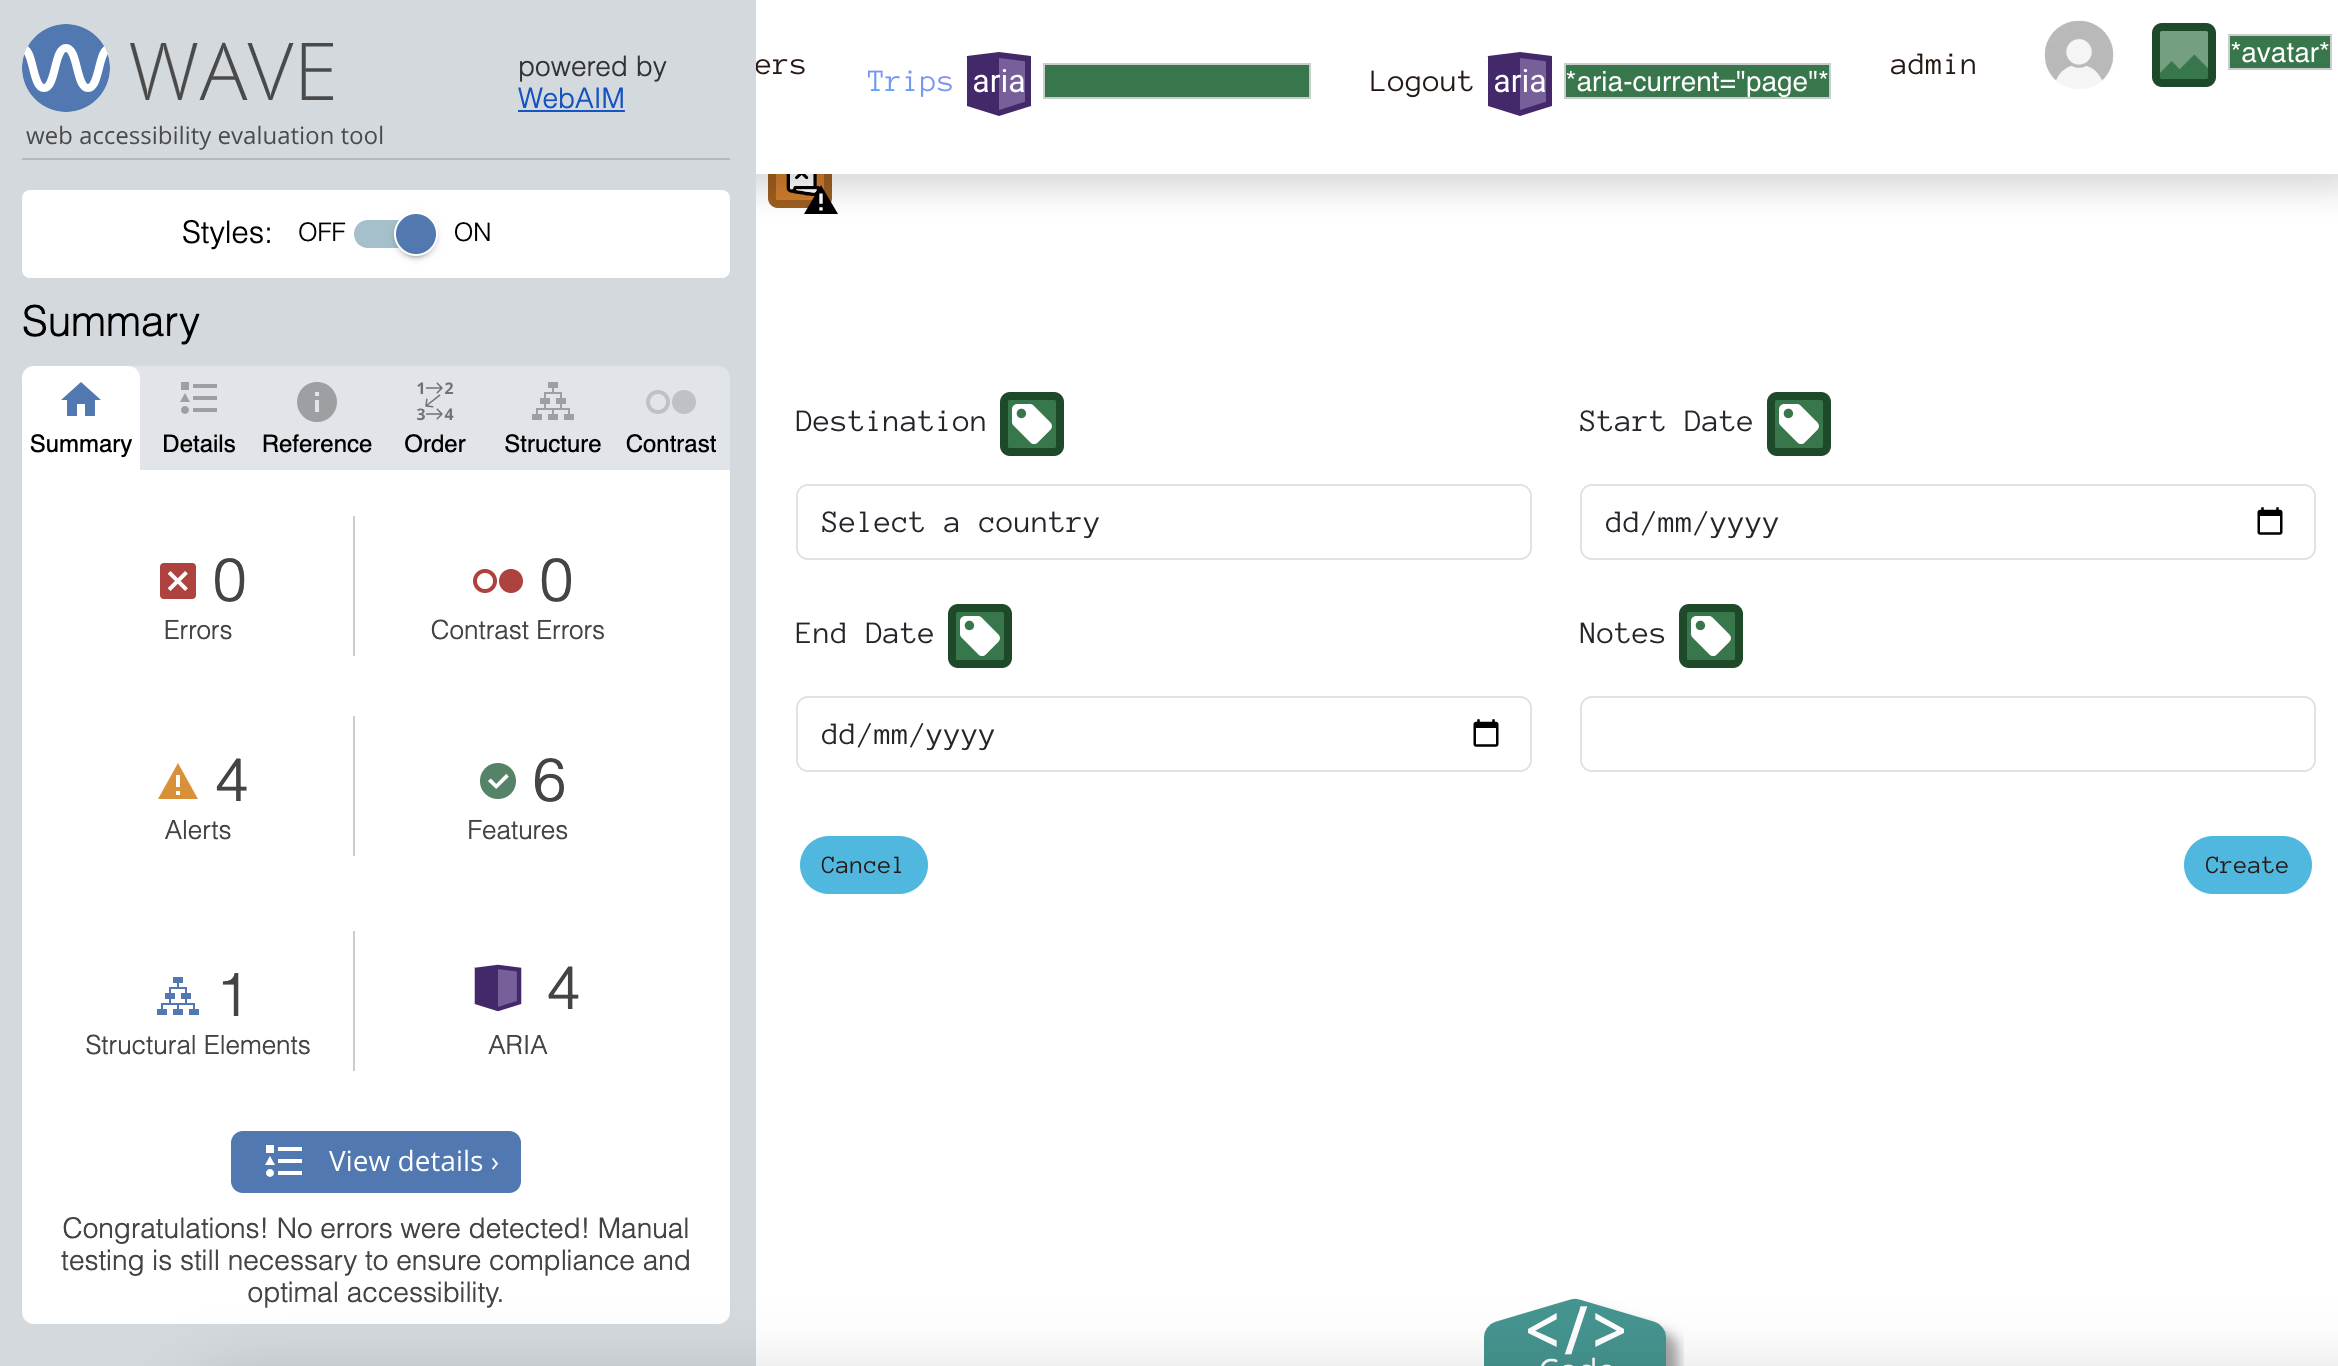
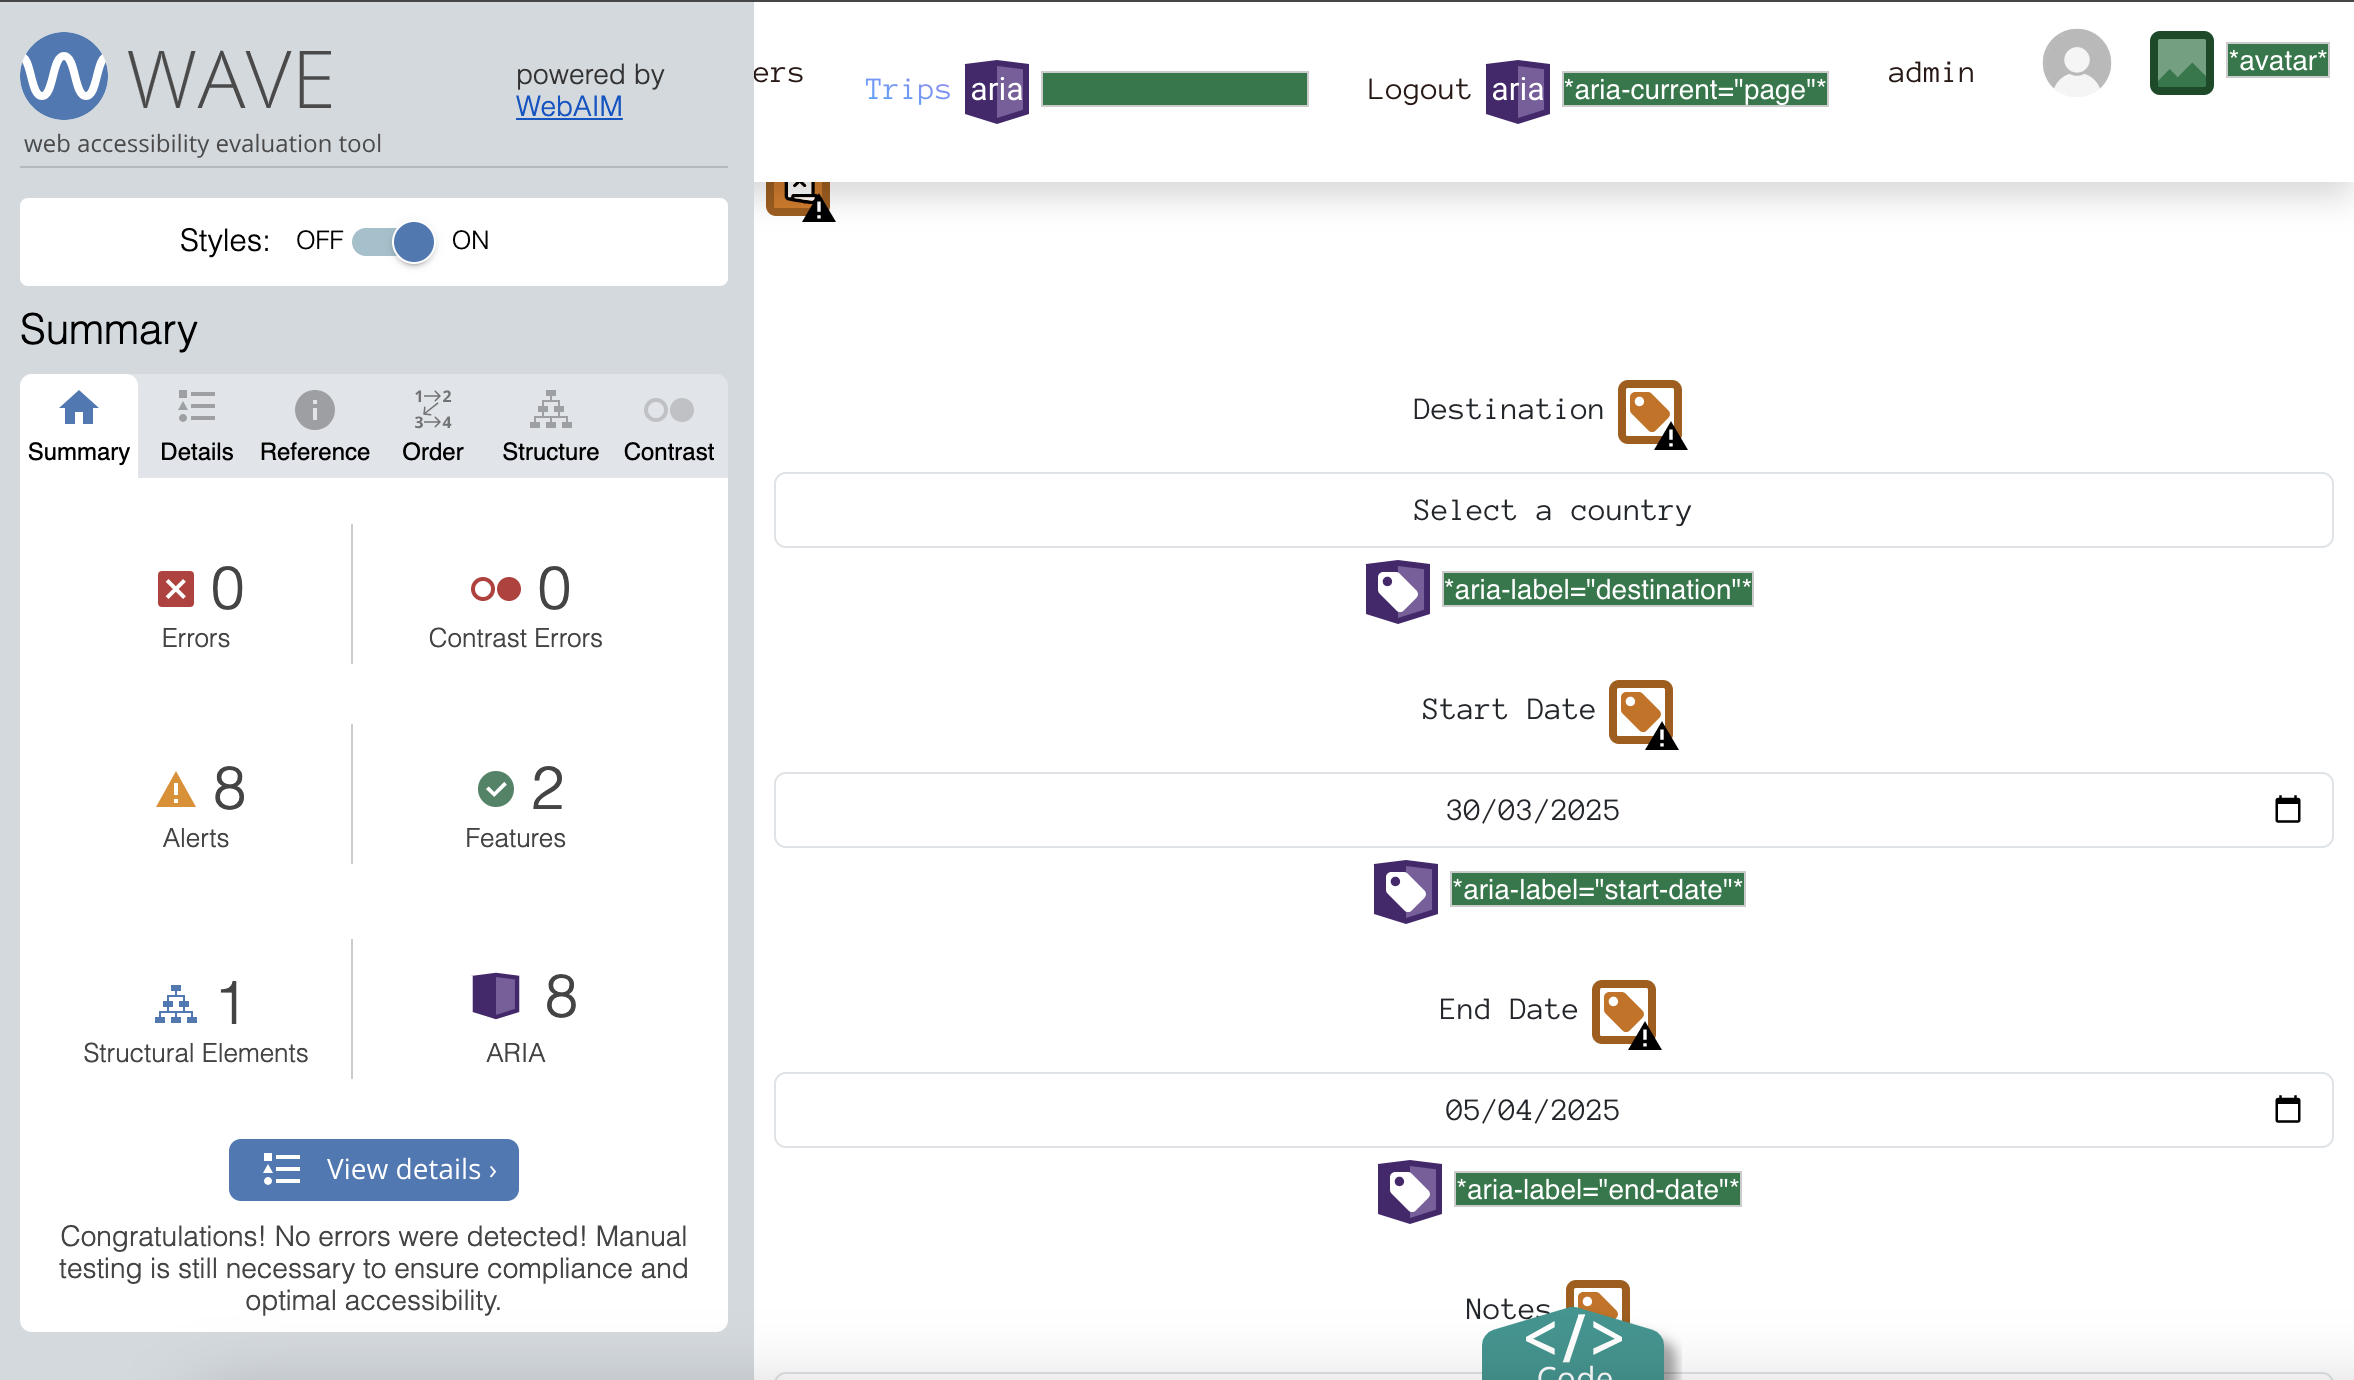
add wave tests to readme

diff --git a/frontend/src/pages/comments/CommentCreateForm.js b/frontend/src/pages/comments/CommentCreateForm.js
@@ -45,7 +45,7 @@ function CommentCreateForm(props) {
             <Form.Control
               className={styles.Form}
               placeholder="My comment..."
-              as="textarea"
+              as="textarea";;
               value={content}
               onChange={handleChange}
               rows={2}

diff --git a/README.md b/README.md
@@ -345,6 +345,8 @@ The following issues were raised during my mid project meeting with my mentor:
 
 JSX code was validated with ESLint. It helps to identify and fix issues in your JavaScript and JSX code. 
 
+![eslint](/docs/testing/)
+
 #### Python
 
 [Code Institute Python Linter](https://pep8ci.herokuapp.com/) was used to validate the python files.
@@ -405,6 +407,7 @@ WAVE(Web Accessibility Evaluation Tool) allows developers to create content that
 |  Sign In  |  Pass  | [sing-in](/docs/testing/wave/sign-in.png)  | 
 |  Sign Up  |  Pass  | [sign-up](/docs/testing/wave/sign-up.png)  | 
 |  Trip  |  Pass  | [trip](/docs/testing/wave/trip.png)  | 
+|  Add Trip  |  Pass  | [add-trip](/docs/testing/wave/add-trip.png)  | 
 |  Edit Trip  |  Pass  | [edit-trip](/docs/testing/wave/edit-trip.png)  | 
 |  Update Status  |  Pass  | [update-status](/docs/testing/wave/update-status.png)  | 
 
